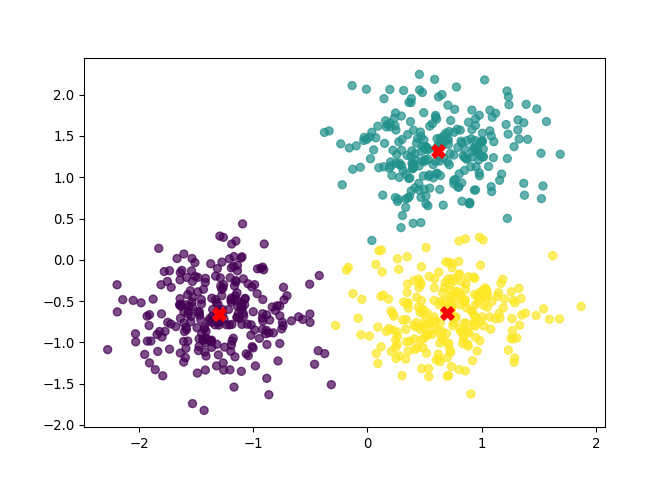
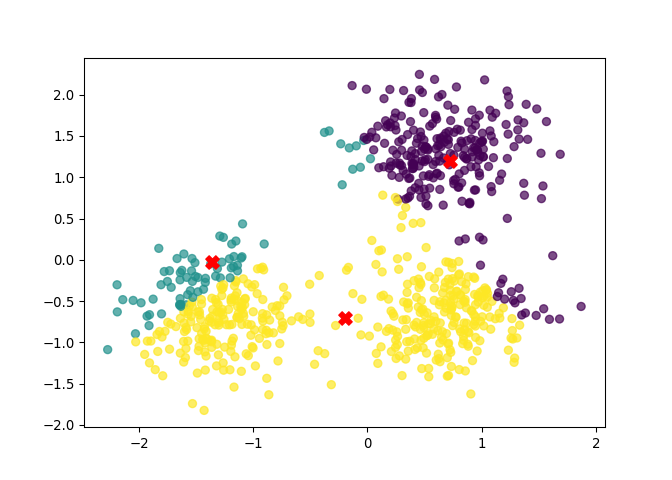
update docs

diff --git a/ML_pod5/docs/Clustering_from_scratch.html b/ML_pod5/docs/Clustering_from_scratch.html
@@ -299,7 +299,7 @@ window.Quarto = {
 <li>Each cluster has a “center” (called the centroid), which is the average of the data points in that cluster.</li>
 <li>Data points are assigned to the cluster with the nearest centroid, so items in the same cluster are more similar to each other than to items in other clusters.</li>
 </ul>
-<div id="7318065c" class="cell" data-execution_count="1">
+<div id="a6c323f1" class="cell" data-execution_count="1">
 <div class="sourceCode cell-code" id="cb1"><pre class="sourceCode python code-with-copy"><code class="sourceCode python"><span id="cb1-1"><a href="#cb1-1" aria-hidden="true" tabindex="-1"></a><span class="im">import</span> numpy <span class="im">as</span> np</span>
 <span id="cb1-2"><a href="#cb1-2" aria-hidden="true" tabindex="-1"></a><span class="im">from</span> sklearn.datasets <span class="im">import</span> make_blobs</span>
 <span id="cb1-3"><a href="#cb1-3" aria-hidden="true" tabindex="-1"></a><span class="im">from</span> sklearn.preprocessing <span class="im">import</span> StandardScaler</span>
@@ -310,7 +310,7 @@ window.Quarto = {
 <ol type="1">
 <li>Let’s generate some data:</li>
 </ol>
-<div id="74135237" class="cell" data-execution_count="2">
+<div id="85a25635" class="cell" data-execution_count="2">
 <div class="sourceCode cell-code" id="cb2"><pre class="sourceCode python code-with-copy"><code class="sourceCode python"><span id="cb2-1"><a href="#cb2-1" aria-hidden="true" tabindex="-1"></a>centers <span class="op">=</span> [[<span class="dv">1</span>, <span class="dv">1</span>], [<span class="op">-</span><span class="dv">1</span>, <span class="op">-</span><span class="dv">1</span>], [<span class="dv">1</span>, <span class="op">-</span><span class="dv">1</span>]]</span>
 <span id="cb2-2"><a href="#cb2-2" aria-hidden="true" tabindex="-1"></a>data, labels_true <span class="op">=</span> make_blobs(</span>
 <span id="cb2-3"><a href="#cb2-3" aria-hidden="true" tabindex="-1"></a>    n_samples<span class="op">=</span><span class="dv">750</span>, centers<span class="op">=</span>centers, cluster_std<span class="op">=</span><span class="fl">0.4</span>, random_state<span class="op">=</span><span class="dv">0</span></span>
@@ -336,7 +336,7 @@ window.Quarto = {
 <ol start="2" type="1">
 <li>Let’s make a simple plot of the data:</li>
 </ol>
-<div id="1368d31a" class="cell" data-execution_count="3">
+<div id="a617b3d7" class="cell" data-execution_count="3">
 <div class="sourceCode cell-code" id="cb5"><pre class="sourceCode python code-with-copy"><code class="sourceCode python"><span id="cb5-1"><a href="#cb5-1" aria-hidden="true" tabindex="-1"></a>fig,ax <span class="op">=</span> plt.subplots()</span>
 <span id="cb5-2"><a href="#cb5-2" aria-hidden="true" tabindex="-1"></a>ax.scatter(data[:,<span class="dv">0</span>], data[:,<span class="dv">1</span>])</span>
 <span id="cb5-3"><a href="#cb5-3" aria-hidden="true" tabindex="-1"></a>plt.show()</span></code><button title="Copy to Clipboard" class="code-copy-button"><i class="bi"></i></button></pre></div>
@@ -380,7 +380,7 @@ Solution
 </div>
 <div id="callout-1" class="callout-1-contents callout-collapse collapse">
 <div class="callout-body-container callout-body">
-<div id="95388d80" class="cell" data-execution_count="4">
+<div id="0a0f32c5" class="cell" data-execution_count="4">
 <div class="sourceCode cell-code" id="cb6"><pre class="sourceCode python code-with-copy"><code class="sourceCode python"><span id="cb6-1"><a href="#cb6-1" aria-hidden="true" tabindex="-1"></a><span class="im">import</span> random</span>
 <span id="cb6-2"><a href="#cb6-2" aria-hidden="true" tabindex="-1"></a></span>
 <span id="cb6-3"><a href="#cb6-3" aria-hidden="true" tabindex="-1"></a><span class="co"># Select 3 random rows from data</span></span>
@@ -396,9 +396,9 @@ Solution
 <span id="cb6-13"><a href="#cb6-13" aria-hidden="true" tabindex="-1"></a>ax.scatter(centroids[:, <span class="dv">0</span>], centroids[:, <span class="dv">1</span>], color<span class="op">=</span><span class="st">'red'</span>, s<span class="op">=</span><span class="dv">100</span>, marker<span class="op">=</span><span class="st">'X'</span>, label<span class="op">=</span><span class="st">'Centroids'</span>)</span>
 <span id="cb6-14"><a href="#cb6-14" aria-hidden="true" tabindex="-1"></a>plt.show()</span></code><button title="Copy to Clipboard" class="code-copy-button"><i class="bi"></i></button></pre></div>
 <div class="cell-output cell-output-stdout">
-<pre><code>[[-1.43557093 -0.97471401]
- [ 0.59807564  1.34363133]
- [ 0.86732948 -0.76800329]]</code></pre>
+<pre><code>[[ 1.68745105  1.27830756]
+ [-1.29275264  0.28788197]
+ [-0.70491186 -0.4356543 ]]</code></pre>
 </div>
 <div class="cell-output cell-output-display">
 <div>
@@ -438,13 +438,13 @@ Solution
 </div>
 <div id="callout-2" class="callout-2-contents callout-collapse collapse">
 <div class="callout-body-container callout-body">
-<div id="b1827acc" class="cell" data-execution_count="5">
+<div id="2dbf77d2" class="cell" data-execution_count="5">
 <div class="sourceCode cell-code" id="cb8"><pre class="sourceCode python code-with-copy"><code class="sourceCode python"><span id="cb8-1"><a href="#cb8-1" aria-hidden="true" tabindex="-1"></a><span class="kw">def</span> calculate_euclidean_distance(point1, point2):</span>
 <span id="cb8-2"><a href="#cb8-2" aria-hidden="true" tabindex="-1"></a>    <span class="cf">return</span> np.sqrt(np.<span class="bu">sum</span>((point1 <span class="op">-</span> point2) <span class="op">**</span> <span class="dv">2</span>))</span>
 <span id="cb8-3"><a href="#cb8-3" aria-hidden="true" tabindex="-1"></a></span>
 <span id="cb8-4"><a href="#cb8-4" aria-hidden="true" tabindex="-1"></a>calculate_euclidean_distance(data[<span class="dv">0</span>], centroids[<span class="dv">0</span>])</span></code><button title="Copy to Clipboard" class="code-copy-button"><i class="bi"></i></button></pre></div>
 <div class="cell-output cell-output-display" data-execution_count="5">
-<pre><code>3.099784587739274</code></pre>
+<pre><code>1.2056319469547112</code></pre>
 </div>
 </div>
 </div>
@@ -466,7 +466,7 @@ Solution
 </div>
 <div id="callout-3" class="callout-3-contents callout-collapse collapse">
 <div class="callout-body-container callout-body">
-<div id="c7011323" class="cell" data-execution_count="6">
+<div id="fa253e78" class="cell" data-execution_count="6">
 <div class="sourceCode cell-code" id="cb10"><pre class="sourceCode python code-with-copy"><code class="sourceCode python"><span id="cb10-1"><a href="#cb10-1" aria-hidden="true" tabindex="-1"></a>results <span class="op">=</span>[]</span>
 <span id="cb10-2"><a href="#cb10-2" aria-hidden="true" tabindex="-1"></a><span class="cf">for</span> i, entry <span class="kw">in</span> <span class="bu">enumerate</span>(centroids):</span>
 <span id="cb10-3"><a href="#cb10-3" aria-hidden="true" tabindex="-1"></a>    distance <span class="op">=</span> calculate_euclidean_distance(data[<span class="dv">0</span>], entry)</span>
@@ -476,7 +476,7 @@ Solution
 <span id="cb10-7"><a href="#cb10-7" aria-hidden="true" tabindex="-1"></a></span>
 <span id="cb10-8"><a href="#cb10-8" aria-hidden="true" tabindex="-1"></a><span class="bu">print</span>(closest_index)</span></code><button title="Copy to Clipboard" class="code-copy-button"><i class="bi"></i></button></pre></div>
 <div class="cell-output cell-output-stdout">
-<pre><code>1</code></pre>
+<pre><code>0</code></pre>
 </div>
 </div>
 </div>
@@ -498,7 +498,7 @@ Solution
 </div>
 <div id="callout-4" class="callout-4-contents callout-collapse collapse">
 <div class="callout-body-container callout-body">
-<div id="abc80cfd" class="cell" data-execution_count="7">
+<div id="e530bbd6" class="cell" data-execution_count="7">
 <div class="sourceCode cell-code" id="cb12"><pre class="sourceCode python code-with-copy"><code class="sourceCode python"><span id="cb12-1"><a href="#cb12-1" aria-hidden="true" tabindex="-1"></a>closest_index <span class="op">=</span> []</span>
 <span id="cb12-2"><a href="#cb12-2" aria-hidden="true" tabindex="-1"></a></span>
 <span id="cb12-3"><a href="#cb12-3" aria-hidden="true" tabindex="-1"></a><span class="cf">for</span> j, row <span class="kw">in</span> <span class="bu">enumerate</span>(data):</span>
@@ -512,7 +512,7 @@ Solution
 <span id="cb12-11"><a href="#cb12-11" aria-hidden="true" tabindex="-1"></a></span>
 <span id="cb12-12"><a href="#cb12-12" aria-hidden="true" tabindex="-1"></a><span class="bu">print</span>(closest_index)</span></code><button title="Copy to Clipboard" class="code-copy-button"><i class="bi"></i></button></pre></div>
 <div class="cell-output cell-output-stdout">
-<pre><code>[1, 0, 1, 2, 1, 0, 0, 2, 1, 1, 0, 0, 0, 2, 0, 1, 0, 0, 0, 2, 2, 2, 2, 2, 0, 0, 2, 1, 1, 2, 1, 0, 0, 1, 0, 1, 2, 1, 1, 2, 2, 0, 0, 0, 0, 0, 1, 2, 1, 0, 2, 2, 0, 0, 2, 2, 0, 1, 2, 0, 2, 2, 2, 2, 2, 1, 2, 2, 1, 1, 1, 2, 1, 1, 2, 0, 1, 0, 1, 2, 0, 0, 1, 1, 1, 1, 0, 2, 0, 2, 2, 1, 0, 1, 0, 1, 0, 0, 1, 1, 2, 0, 2, 1, 2, 2, 2, 2, 1, 1, 1, 0, 0, 0, 0, 1, 1, 0, 1, 0, 2, 0, 1, 1, 0, 2, 0, 1, 1, 2, 1, 2, 2, 2, 1, 0, 2, 2, 1, 0, 1, 2, 1, 1, 2, 2, 0, 2, 0, 1, 2, 0, 0, 2, 2, 2, 1, 0, 1, 0, 1, 0, 1, 2, 2, 0, 0, 2, 2, 0, 1, 0, 2, 2, 2, 0, 0, 2, 2, 1, 0, 2, 1, 1, 2, 1, 1, 0, 1, 0, 1, 0, 0, 2, 2, 1, 1, 0, 0, 2, 0, 2, 2, 2, 2, 1, 2, 1, 2, 2, 1, 2, 2, 2, 1, 1, 0, 0, 0, 2, 2, 2, 2, 0, 2, 2, 1, 1, 2, 1, 1, 1, 0, 1, 0, 0, 0, 2, 0, 0, 1, 0, 2, 2, 0, 2, 2, 0, 1, 1, 0, 0, 0, 1, 0, 1, 2, 1, 2, 2, 2, 2, 2, 0, 0, 1, 1, 0, 0, 1, 1, 2, 0, 2, 2, 0, 0, 2, 0, 2, 1, 2, 2, 1, 0, 2, 2, 1, 2, 2, 1, 1, 2, 1, 2, 1, 2, 0, 1, 1, 1, 0, 2, 0, 2, 2, 1, 2, 2, 1, 1, 2, 0, 0, 0, 0, 0, 1, 0, 0, 0, 0, 1, 1, 0, 0, 0, 1, 2, 1, 0, 2, 2, 1, 1, 2, 1, 2, 0, 1, 2, 1, 2, 1, 2, 2, 1, 0, 1, 0, 1, 2, 2, 0, 0, 0, 2, 1, 2, 1, 2, 0, 2, 2, 1, 0, 1, 0, 1, 1, 1, 1, 2, 1, 2, 1, 0, 1, 0, 2, 0, 0, 0, 1, 0, 0, 1, 2, 0, 1, 2, 2, 0, 0, 2, 2, 2, 0, 2, 0, 2, 1, 2, 0, 2, 0, 1, 0, 1, 0, 0, 1, 0, 2, 2, 0, 1, 1, 2, 0, 2, 2, 2, 2, 0, 1, 1, 1, 1, 0, 1, 2, 0, 1, 0, 2, 1, 1, 0, 1, 0, 0, 1, 0, 1, 2, 2, 2, 0, 0, 2, 1, 0, 1, 1, 0, 1, 0, 0, 2, 2, 0, 1, 0, 2, 2, 0, 0, 0, 0, 1, 1, 1, 2, 2, 0, 2, 0, 1, 1, 0, 2, 0, 1, 1, 2, 1, 0, 1, 2, 0, 1, 2, 2, 0, 1, 1, 1, 2, 0, 0, 1, 2, 1, 1, 0, 0, 0, 0, 1, 0, 1, 0, 1, 1, 2, 1, 0, 0, 2, 0, 0, 1, 0, 1, 2, 0, 1, 1, 0, 1, 0, 0, 2, 2, 0, 2, 2, 0, 2, 0, 0, 0, 0, 2, 1, 1, 1, 0, 2, 2, 1, 2, 1, 2, 0, 1, 0, 0, 1, 1, 0, 2, 0, 2, 2, 1, 2, 0, 0, 0, 2, 1, 1, 2, 1, 2, 2, 1, 2, 1, 0, 0, 0, 0, 1, 1, 1, 2, 0, 0, 0, 0, 2, 2, 2, 1, 2, 0, 0, 1, 1, 0, 1, 2, 0, 2, 0, 1, 2, 2, 1, 1, 0, 1, 1, 2, 1, 1, 1, 2, 1, 2, 1, 1, 0, 0, 1, 1, 0, 2, 2, 1, 1, 1, 1, 2, 0, 0, 0, 2, 0, 1, 1, 2, 2, 1, 0, 2, 1, 0, 2, 2, 0, 1, 1, 2, 0, 2, 1, 1, 1, 2, 2, 2, 1, 0, 0, 0, 0, 0, 1, 1, 2, 0, 2, 1, 0, 0, 2, 1, 2, 0, 0, 0, 2, 0, 2, 1, 2, 2, 0, 1, 1, 1, 0, 0, 2, 1, 1, 2, 2, 0, 2, 2, 2, 1, 2, 0, 2, 0, 0, 0, 2, 1, 2, 1, 2, 2, 1, 1, 2, 0, 1, 1, 2, 1, 1, 1, 0, 1, 2, 0, 2, 1, 0, 1, 1, 2, 1, 2, 0, 0, 2, 0, 1, 0, 2, 0, 2]</code></pre>
+<pre><code>[0, 2, 0, 2, 0, 1, 2, 2, 0, 0, 2, 2, 2, 2, 2, 0, 2, 2, 2, 2, 2, 2, 2, 2, 2, 2, 2, 0, 0, 2, 0, 2, 2, 0, 2, 0, 2, 0, 0, 2, 2, 2, 2, 2, 1, 2, 0, 2, 0, 1, 0, 2, 1, 2, 2, 2, 1, 0, 2, 2, 2, 2, 2, 2, 2, 0, 2, 2, 0, 0, 0, 2, 0, 0, 2, 2, 0, 1, 0, 2, 2, 2, 2, 0, 0, 0, 2, 2, 2, 2, 2, 0, 2, 0, 2, 0, 1, 2, 0, 0, 2, 2, 2, 0, 2, 2, 2, 2, 0, 0, 0, 2, 2, 1, 1, 0, 0, 1, 0, 2, 2, 1, 0, 1, 2, 2, 2, 0, 0, 0, 0, 2, 2, 2, 0, 2, 2, 2, 0, 2, 0, 2, 0, 0, 2, 2, 2, 2, 2, 0, 2, 2, 2, 2, 2, 2, 0, 2, 0, 2, 2, 1, 0, 2, 2, 2, 1, 2, 2, 1, 0, 2, 2, 2, 2, 2, 2, 2, 2, 0, 2, 2, 0, 0, 2, 0, 0, 2, 0, 2, 0, 2, 2, 2, 2, 0, 0, 2, 2, 2, 2, 2, 0, 2, 2, 0, 2, 0, 2, 2, 0, 2, 0, 2, 0, 1, 1, 2, 1, 2, 2, 2, 0, 1, 2, 2, 0, 0, 2, 0, 0, 0, 2, 0, 2, 1, 1, 2, 1, 1, 0, 2, 2, 2, 2, 2, 2, 2, 0, 0, 2, 2, 2, 0, 2, 0, 2, 0, 2, 0, 0, 2, 2, 2, 2, 1, 0, 2, 2, 0, 0, 2, 2, 0, 2, 2, 1, 2, 2, 2, 1, 2, 2, 0, 2, 2, 2, 1, 0, 2, 0, 0, 2, 0, 2, 0, 2, 2, 0, 0, 0, 2, 2, 2, 2, 2, 0, 2, 2, 0, 0, 2, 1, 1, 1, 2, 2, 0, 2, 1, 2, 1, 0, 0, 2, 2, 2, 0, 2, 0, 2, 2, 2, 0, 0, 2, 0, 2, 2, 0, 2, 0, 2, 1, 2, 2, 0, 2, 0, 2, 0, 2, 2, 2, 2, 2, 2, 0, 2, 0, 2, 1, 2, 2, 0, 2, 0, 2, 0, 0, 0, 0, 2, 0, 2, 0, 2, 0, 2, 2, 2, 1, 2, 0, 2, 2, 0, 2, 1, 0, 2, 0, 2, 2, 2, 2, 2, 2, 2, 2, 2, 0, 2, 2, 2, 1, 0, 2, 0, 2, 2, 0, 1, 2, 0, 1, 0, 0, 2, 1, 2, 2, 2, 2, 2, 0, 1, 1, 0, 2, 0, 0, 2, 0, 2, 2, 0, 0, 2, 0, 1, 2, 0, 2, 0, 2, 2, 2, 1, 1, 2, 0, 1, 0, 1, 2, 0, 2, 2, 2, 2, 2, 0, 2, 2, 0, 2, 2, 2, 2, 0, 0, 0, 2, 2, 1, 2, 2, 0, 0, 2, 2, 1, 0, 0, 2, 0, 2, 0, 2, 2, 0, 2, 2, 2, 0, 2, 0, 2, 2, 1, 0, 2, 0, 0, 2, 1, 1, 2, 0, 2, 0, 2, 0, 0, 2, 0, 2, 2, 2, 2, 2, 1, 2, 0, 2, 2, 0, 0, 2, 0, 1, 1, 2, 2, 2, 2, 2, 2, 2, 2, 1, 1, 1, 2, 0, 0, 0, 2, 2, 2, 0, 2, 0, 2, 1, 0, 2, 2, 0, 0, 2, 0, 2, 2, 2, 0, 0, 2, 2, 1, 2, 0, 0, 2, 0, 2, 2, 0, 2, 0, 1, 2, 2, 1, 0, 0, 0, 2, 2, 1, 1, 1, 2, 2, 2, 0, 2, 1, 2, 0, 0, 2, 0, 2, 2, 2, 2, 0, 2, 2, 0, 0, 2, 0, 0, 2, 0, 0, 0, 2, 2, 2, 0, 2, 2, 2, 0, 0, 2, 2, 2, 0, 0, 0, 0, 2, 1, 2, 2, 0, 2, 0, 0, 2, 2, 0, 2, 2, 0, 2, 2, 2, 2, 0, 0, 0, 2, 2, 0, 0, 0, 2, 0, 2, 0, 2, 2, 2, 2, 2, 0, 0, 2, 2, 0, 0, 2, 2, 2, 2, 2, 2, 2, 2, 2, 2, 2, 0, 0, 2, 2, 0, 0, 0, 2, 1, 2, 0, 0, 0, 2, 2, 2, 2, 2, 0, 2, 2, 2, 2, 2, 1, 2, 0, 2, 0, 2, 2, 0, 2, 0, 2, 2, 0, 0, 0, 0, 0, 2, 2, 2, 2, 2, 0, 1, 0, 0, 2, 0, 2, 2, 1, 2, 2, 0, 1, 2, 1, 2]</code></pre>
 </div>
 </div>
 </div>
@@ -534,7 +534,7 @@ Solution
 </div>
 <div id="callout-5" class="callout-5-contents callout-collapse collapse">
 <div class="callout-body-container callout-body">
-<div id="7248c096" class="cell" data-execution_count="8">
+<div id="5189e8e1" class="cell" data-execution_count="8">
 <div class="sourceCode cell-code" id="cb14"><pre class="sourceCode python code-with-copy"><code class="sourceCode python"><span id="cb14-1"><a href="#cb14-1" aria-hidden="true" tabindex="-1"></a>fig,ax <span class="op">=</span> plt.subplots()</span>
 <span id="cb14-2"><a href="#cb14-2" aria-hidden="true" tabindex="-1"></a>scatter <span class="op">=</span> ax.scatter(data[:, <span class="dv">0</span>], data[:, <span class="dv">1</span>], c<span class="op">=</span>closest_index, cmap<span class="op">=</span><span class="st">'viridis'</span>, alpha<span class="op">=</span><span class="fl">0.7</span>)</span>
 <span id="cb14-3"><a href="#cb14-3" aria-hidden="true" tabindex="-1"></a>ax.scatter(centroids[:, <span class="dv">0</span>], centroids[:, <span class="dv">1</span>], color<span class="op">=</span><span class="st">'red'</span>, s<span class="op">=</span><span class="dv">100</span>, marker<span class="op">=</span><span class="st">'X'</span>, label<span class="op">=</span><span class="st">'Centroids'</span>)</span>
@@ -556,7 +556,7 @@ Solution
 <h3 class="anchored" data-anchor-id="calculate-new-mean-per-cluster">3. Calculate new mean per cluster</h3>
 <p>We have now assigned all points to these first 3 clusters. Now we calculate the new cluster mean per cluster.</p>
 <p>First, we add the vector containing the assignment to the cluster to the data frame.</p>
-<div id="31d8acfc" class="cell" data-execution_count="9">
+<div id="4a9a962f" class="cell" data-execution_count="9">
 <div class="sourceCode cell-code" id="cb15"><pre class="sourceCode python code-with-copy"><code class="sourceCode python"><span id="cb15-1"><a href="#cb15-1" aria-hidden="true" tabindex="-1"></a>data <span class="op">=</span> np.column_stack((data, closest_index)) <span class="co"># add closest_index as column</span></span></code><button title="Copy to Clipboard" class="code-copy-button"><i class="bi"></i></button></pre></div>
 </div>
 <p>Then we calculate the new means of those clusters.</p>
@@ -572,7 +572,7 @@ Solution
 </div>
 <div id="callout-6" class="callout-6-contents callout-collapse collapse">
 <div class="callout-body-container callout-body">
-<div id="ab1b6219" class="cell" data-execution_count="10">
+<div id="7ba7bb41" class="cell" data-execution_count="10">
 <div class="sourceCode cell-code" id="cb16"><pre class="sourceCode python code-with-copy"><code class="sourceCode python"><span id="cb16-1"><a href="#cb16-1" aria-hidden="true" tabindex="-1"></a><span class="co"># Calculate the new_centroids</span></span>
 <span id="cb16-2"><a href="#cb16-2" aria-hidden="true" tabindex="-1"></a></span>
 <span id="cb16-3"><a href="#cb16-3" aria-hidden="true" tabindex="-1"></a>k <span class="op">=</span> <span class="dv">3</span>  <span class="co"># Number of clusters</span></span>
@@ -586,7 +586,7 @@ Solution
 <span id="cb16-11"><a href="#cb16-11" aria-hidden="true" tabindex="-1"></a>    new_centroids.append(centroid)</span>
 <span id="cb16-12"><a href="#cb16-12" aria-hidden="true" tabindex="-1"></a><span class="bu">print</span>(new_centroids)</span></code><button title="Copy to Clipboard" class="code-copy-button"><i class="bi"></i></button></pre></div>
 <div class="cell-output cell-output-stdout">
-<pre><code>[array([-1.30266211, -0.65704205]), array([0.62025882, 1.31291144]), array([ 0.69809801, -0.64795323])]</code></pre>
+<pre><code>[array([0.72365215, 1.19086843]), array([-1.36293866, -0.03194774]), array([-0.19714498, -0.70508851])]</code></pre>
 </div>
 </div>
 </div>
@@ -595,7 +595,7 @@ Solution
 <section id="plot-the-new-centroids" class="level4">
 <h4 class="anchored" data-anchor-id="plot-the-new-centroids">Plot the new centroids</h4>
 <p>we can now plot the new centroids, by updaing the first plot.</p>
-<div id="2dcdc2fa" class="cell" data-execution_count="11">
+<div id="beb03c88" class="cell" data-execution_count="11">
 <div class="sourceCode cell-code" id="cb18"><pre class="sourceCode python code-with-copy"><code class="sourceCode python"><span id="cb18-1"><a href="#cb18-1" aria-hidden="true" tabindex="-1"></a>new_centroids <span class="op">=</span> np.array(new_centroids)  <span class="co"># Convert list to (k, 2) NumPy array</span></span>
 <span id="cb18-2"><a href="#cb18-2" aria-hidden="true" tabindex="-1"></a></span>
 <span id="cb18-3"><a href="#cb18-3" aria-hidden="true" tabindex="-1"></a>fig, ax <span class="op">=</span> plt.subplots()</span>
@@ -623,7 +623,7 @@ Solution
 </section>
 <section id="putting-it-all-together" class="level2">
 <h2 class="anchored" data-anchor-id="putting-it-all-together">Putting it all together:</h2>
-<div id="11ac33ec" class="cell" data-execution_count="12">
+<div id="bb413a6e" class="cell" data-execution_count="12">
 <div class="sourceCode cell-code" id="cb19"><pre class="sourceCode python code-with-copy"><code class="sourceCode python"><span id="cb19-1"><a href="#cb19-1" aria-hidden="true" tabindex="-1"></a><span class="im">import</span> numpy <span class="im">as</span> np</span>
 <span id="cb19-2"><a href="#cb19-2" aria-hidden="true" tabindex="-1"></a><span class="im">import</span> matplotlib.pyplot <span class="im">as</span> plt</span>
 <span id="cb19-3"><a href="#cb19-3" aria-hidden="true" tabindex="-1"></a><span class="im">import</span> random</span>
@@ -722,47 +722,13 @@ Solution
 </figure>
 </div>
 </div>
-<div class="cell-output cell-output-display">
-<div>
-<figure class="figure">
-<p><img src="Clustering_from_scratch_files/figure-html/cell-13-output-6.png" width="580" height="431" class="figure-img"></p>
-</figure>
-</div>
-</div>
-<div class="cell-output cell-output-display">
-<div>
-<figure class="figure">
-<p><img src="Clustering_from_scratch_files/figure-html/cell-13-output-7.png" width="580" height="431" class="figure-img"></p>
-</figure>
-</div>
-</div>
-<div class="cell-output cell-output-display">
-<div>
-<figure class="figure">
-<p><img src="Clustering_from_scratch_files/figure-html/cell-13-output-8.png" width="580" height="431" class="figure-img"></p>
-</figure>
-</div>
-</div>
-<div class="cell-output cell-output-display">
-<div>
-<figure class="figure">
-<p><img src="Clustering_from_scratch_files/figure-html/cell-13-output-9.png" width="580" height="431" class="figure-img"></p>
-</figure>
-</div>
-</div>
-<div class="cell-output cell-output-display">
-<div>
-<figure class="figure">
-<p><img src="Clustering_from_scratch_files/figure-html/cell-13-output-10.png" width="580" height="431" class="figure-img"></p>
-</figure>
-</div>
-</div>
 <div class="cell-output cell-output-stdout">
-<pre><code>Finished after 10 iteration(s).
+<pre><code>Converged after 5 iteration(s).
+Finished after 5 iteration(s).
 Final centroids:
  [[ 0.62260555  1.3172598 ]
- [-1.30659124 -0.65363509]
- [ 0.69142719 -0.64788058]]</code></pre>
+ [-1.30266211 -0.65704205]
+ [ 0.6954587  -0.64442334]]</code></pre>
 </div>
 </div>
 </section>
@@ -784,14 +750,14 @@ Final centroids:
 <section id="clustering-with-scikit-learn" class="level3">
 <h3 class="anchored" data-anchor-id="clustering-with-scikit-learn">2. Clustering with scikit-learn</h3>
 <p>We repeat the clustering approach from above with one line of code:</p>
-<div id="b2607eb9" class="cell" data-execution_count="13">
+<div id="26b94e2d" class="cell" data-execution_count="13">
 <div class="sourceCode cell-code" id="cb23"><pre class="sourceCode python code-with-copy"><code class="sourceCode python"><span id="cb23-1"><a href="#cb23-1" aria-hidden="true" tabindex="-1"></a>centroid, label, inertia <span class="op">=</span> k_means(</span>
 <span id="cb23-2"><a href="#cb23-2" aria-hidden="true" tabindex="-1"></a>    data, n_clusters<span class="op">=</span><span class="dv">3</span>, n_init<span class="op">=</span><span class="st">"auto"</span>, random_state<span class="op">=</span><span class="dv">0</span></span>
 <span id="cb23-3"><a href="#cb23-3" aria-hidden="true" tabindex="-1"></a>)</span></code><button title="Copy to Clipboard" class="code-copy-button"><i class="bi"></i></button></pre></div>
 </div>
 <p>As we can see, the function returns three results: centroids (the location), labels (the assignments) and inertia.</p>
 <p>We can now easily loop over this function to find the optimal amount of clusters, by comparing inertia. We then plot the inertia for each loop in an elbow plot:</p>
-<div id="6eda8c0b" class="cell" data-execution_count="14">
+<div id="48a027c6" class="cell" data-execution_count="14">
 <div class="sourceCode cell-code" id="cb24"><pre class="sourceCode python code-with-copy"><code class="sourceCode python"><span id="cb24-1"><a href="#cb24-1" aria-hidden="true" tabindex="-1"></a>elbow <span class="op">=</span> <span class="bu">list</span>() <span class="co"># list to store interias</span></span>
 <span id="cb24-2"><a href="#cb24-2" aria-hidden="true" tabindex="-1"></a><span class="cf">for</span> k <span class="kw">in</span> <span class="bu">range</span>(<span class="dv">9</span>):</span>
 <span id="cb24-3"><a href="#cb24-3" aria-hidden="true" tabindex="-1"></a>    centroid, label, inertia <span class="op">=</span> k_means(</span>
@@ -803,7 +769,7 @@ Final centroids:
 <section id="generate-elbow-plot." class="level3">
 <h3 class="anchored" data-anchor-id="generate-elbow-plot.">3. Generate elbow plot.</h3>
 <p>Let’s generate an elbow plot to plot the inertia:</p>
-<div id="b1b6b91e" class="cell" data-execution_count="15">
+<div id="032fe2ad" class="cell" data-execution_count="15">
 <div class="sourceCode cell-code" id="cb25"><pre class="sourceCode python code-with-copy"><code class="sourceCode python"><span id="cb25-1"><a href="#cb25-1" aria-hidden="true" tabindex="-1"></a>plt.plot(<span class="bu">range</span>(<span class="dv">1</span>, <span class="dv">10</span>), elbow, marker<span class="op">=</span><span class="st">'o'</span>)</span>
 <span id="cb25-2"><a href="#cb25-2" aria-hidden="true" tabindex="-1"></a>plt.title(<span class="st">'Elbow Method'</span>)</span>
 <span id="cb25-3"><a href="#cb25-3" aria-hidden="true" tabindex="-1"></a>plt.xlabel(<span class="st">'Number of clusters'</span>)</span>

diff --git a/ML_pod5/docs/Regression_from_scratch.html b/ML_pod5/docs/Regression_from_scratch.html
@@ -813,7 +813,7 @@ Solution Gradients
 <ol type="1">
 <li>Start with a new data set, for example age and cortical thickness, generated from this code:</li>
 </ol>
-<div id="6b4cf552" class="cell" data-execution_count="1">
+<div id="5e98d040" class="cell" data-execution_count="1">
 <div class="sourceCode cell-code" id="cb5"><pre class="sourceCode python code-with-copy"><code class="sourceCode python"><span id="cb5-1"><a href="#cb5-1" aria-hidden="true" tabindex="-1"></a><span class="im">import</span> numpy <span class="im">as</span> np</span>
 <span id="cb5-2"><a href="#cb5-2" aria-hidden="true" tabindex="-1"></a>n <span class="op">=</span> <span class="dv">100</span></span>
 <span id="cb5-3"><a href="#cb5-3" aria-hidden="true" tabindex="-1"></a>age <span class="op">=</span> np.linspace(<span class="dv">0</span>, <span class="dv">1</span>, n)  <span class="co"># age, standardized</span></span>
@@ -838,7 +838,7 @@ Solution Regression
 </div>
 <div id="callout-5" class="callout-5-contents callout-collapse collapse">
 <div class="callout-body-container callout-body">
-<div id="78dfb84c" class="cell" data-execution_count="2">
+<div id="c1fefd5b" class="cell" data-execution_count="2">
 <div class="sourceCode cell-code" id="cb6"><pre class="sourceCode python code-with-copy"><code class="sourceCode python"><span id="cb6-1"><a href="#cb6-1" aria-hidden="true" tabindex="-1"></a><span class="im">import</span> numpy <span class="im">as</span> np</span>
 <span id="cb6-2"><a href="#cb6-2" aria-hidden="true" tabindex="-1"></a><span class="im">import</span> matplotlib.pyplot <span class="im">as</span> plt</span>
 <span id="cb6-3"><a href="#cb6-3" aria-hidden="true" tabindex="-1"></a></span>
@@ -883,17 +883,17 @@ Solution Regression
 <span id="cb6-42"><a href="#cb6-42" aria-hidden="true" tabindex="-1"></a>plt.savefig(<span class="st">"imgs/linear_regression_fit.png"</span>, dpi<span class="op">=</span><span class="dv">300</span>, bbox_inches<span class="op">=</span><span class="st">"tight"</span>)</span>
 <span id="cb6-43"><a href="#cb6-43" aria-hidden="true" tabindex="-1"></a>plt.show()</span></code><button title="Copy to Clipboard" class="code-copy-button"><i class="bi"></i></button></pre></div>
 <div class="cell-output cell-output-stdout">
-<pre><code>Epoch    0: w=0.028, b=0.056, Loss=7.7893
-Epoch  200: w=0.873, b=2.306, Loss=0.0747
-Epoch  400: w=0.665, b=2.433, Loss=0.0447
-Epoch  600: w=0.501, b=2.521, Loss=0.0273
-Epoch  800: w=0.376, b=2.588, Loss=0.0171
-Epoch 1000: w=0.280, b=2.639, Loss=0.0111
-Epoch 1200: w=0.207, b=2.678, Loss=0.0076
-Epoch 1400: w=0.151, b=2.709, Loss=0.0056
-Epoch 1600: w=0.108, b=2.731, Loss=0.0044
-Epoch 1800: w=0.075, b=2.749, Loss=0.0037
-Final weights: w=0.050, b=2.762</code></pre>
+<pre><code>Epoch    0: w=0.028, b=0.056, Loss=7.8590
+Epoch  200: w=0.886, b=2.312, Loss=0.0706
+Epoch  400: w=0.684, b=2.437, Loss=0.0421
+Epoch  600: w=0.524, b=2.522, Loss=0.0256
+Epoch  800: w=0.402, b=2.588, Loss=0.0159
+Epoch 1000: w=0.309, b=2.638, Loss=0.0102
+Epoch 1200: w=0.237, b=2.676, Loss=0.0069
+Epoch 1400: w=0.183, b=2.705, Loss=0.0050
+Epoch 1600: w=0.141, b=2.728, Loss=0.0039
+Epoch 1800: w=0.109, b=2.745, Loss=0.0032
+Final weights: w=0.085, b=2.758</code></pre>
 </div>
 <div class="cell-output cell-output-display">
 <div>

diff --git a/ML_pod5/docs/More_clustering_algorithms.html b/ML_pod5/docs/More_clustering_algorithms.html
@@ -245,7 +245,7 @@ pre > code.sourceCode > span > a:first-child::before { text-decoration: underlin
 </header>
 
 
-<div id="13993bd4" class="cell" data-execution_count="1">
+<div id="9d2e1669" class="cell" data-execution_count="1">
 <div class="sourceCode cell-code" id="cb1"><pre class="sourceCode python code-with-copy"><code class="sourceCode python"><span id="cb1-1"><a href="#cb1-1" aria-hidden="true" tabindex="-1"></a><span class="im">import</span> time</span>
 <span id="cb1-2"><a href="#cb1-2" aria-hidden="true" tabindex="-1"></a><span class="im">import</span> warnings</span>
 <span id="cb1-3"><a href="#cb1-3" aria-hidden="true" tabindex="-1"></a><span class="im">from</span> itertools <span class="im">import</span> cycle, islice</span>
@@ -258,7 +258,7 @@ pre > code.sourceCode > span > a:first-child::before { text-decoration: underlin
 <span id="cb1-10"><a href="#cb1-10" aria-hidden="true" tabindex="-1"></a><span class="im">from</span> sklearn.preprocessing <span class="im">import</span> StandardScaler</span></code><button title="Copy to Clipboard" class="code-copy-button"><i class="bi"></i></button></pre></div>
 </div>
 <p>Let’s generate some data:</p>
-<div id="482a9579" class="cell" data-execution_count="2">
+<div id="a155f08e" class="cell" data-execution_count="2">
 <div class="sourceCode cell-code" id="cb2"><pre class="sourceCode python code-with-copy"><code class="sourceCode python"><span id="cb2-1"><a href="#cb2-1" aria-hidden="true" tabindex="-1"></a><span class="co"># ============</span></span>
 <span id="cb2-2"><a href="#cb2-2" aria-hidden="true" tabindex="-1"></a><span class="co"># Generate datasets. We choose the size big enough to see the scalability</span></span>
 <span id="cb2-3"><a href="#cb2-3" aria-hidden="true" tabindex="-1"></a><span class="co"># of the algorithms, but not too big to avoid too long running times</span></span>
@@ -285,7 +285,7 @@ pre > code.sourceCode > span > a:first-child::before { text-decoration: underlin
 <span id="cb2-24"><a href="#cb2-24" aria-hidden="true" tabindex="-1"></a>    n_samples<span class="op">=</span>n_samples, cluster_std<span class="op">=</span>[<span class="fl">1.0</span>, <span class="fl">2.5</span>, <span class="fl">0.5</span>], random_state<span class="op">=</span>random_state</span>
 <span id="cb2-25"><a href="#cb2-25" aria-hidden="true" tabindex="-1"></a>)</span></code><button title="Copy to Clipboard" class="code-copy-button"><i class="bi"></i></button></pre></div>
 </div>
-<div id="72c32472" class="cell" data-execution_count="3">
+<div id="65e681e2" class="cell" data-execution_count="3">
 <div class="sourceCode cell-code" id="cb3"><pre class="sourceCode python code-with-copy"><code class="sourceCode python"><span id="cb3-1"><a href="#cb3-1" aria-hidden="true" tabindex="-1"></a><span class="co"># ============</span></span>
 <span id="cb3-2"><a href="#cb3-2" aria-hidden="true" tabindex="-1"></a><span class="co"># Set up cluster parameters</span></span>
 <span id="cb3-3"><a href="#cb3-3" aria-hidden="true" tabindex="-1"></a><span class="co"># ============</span></span>
